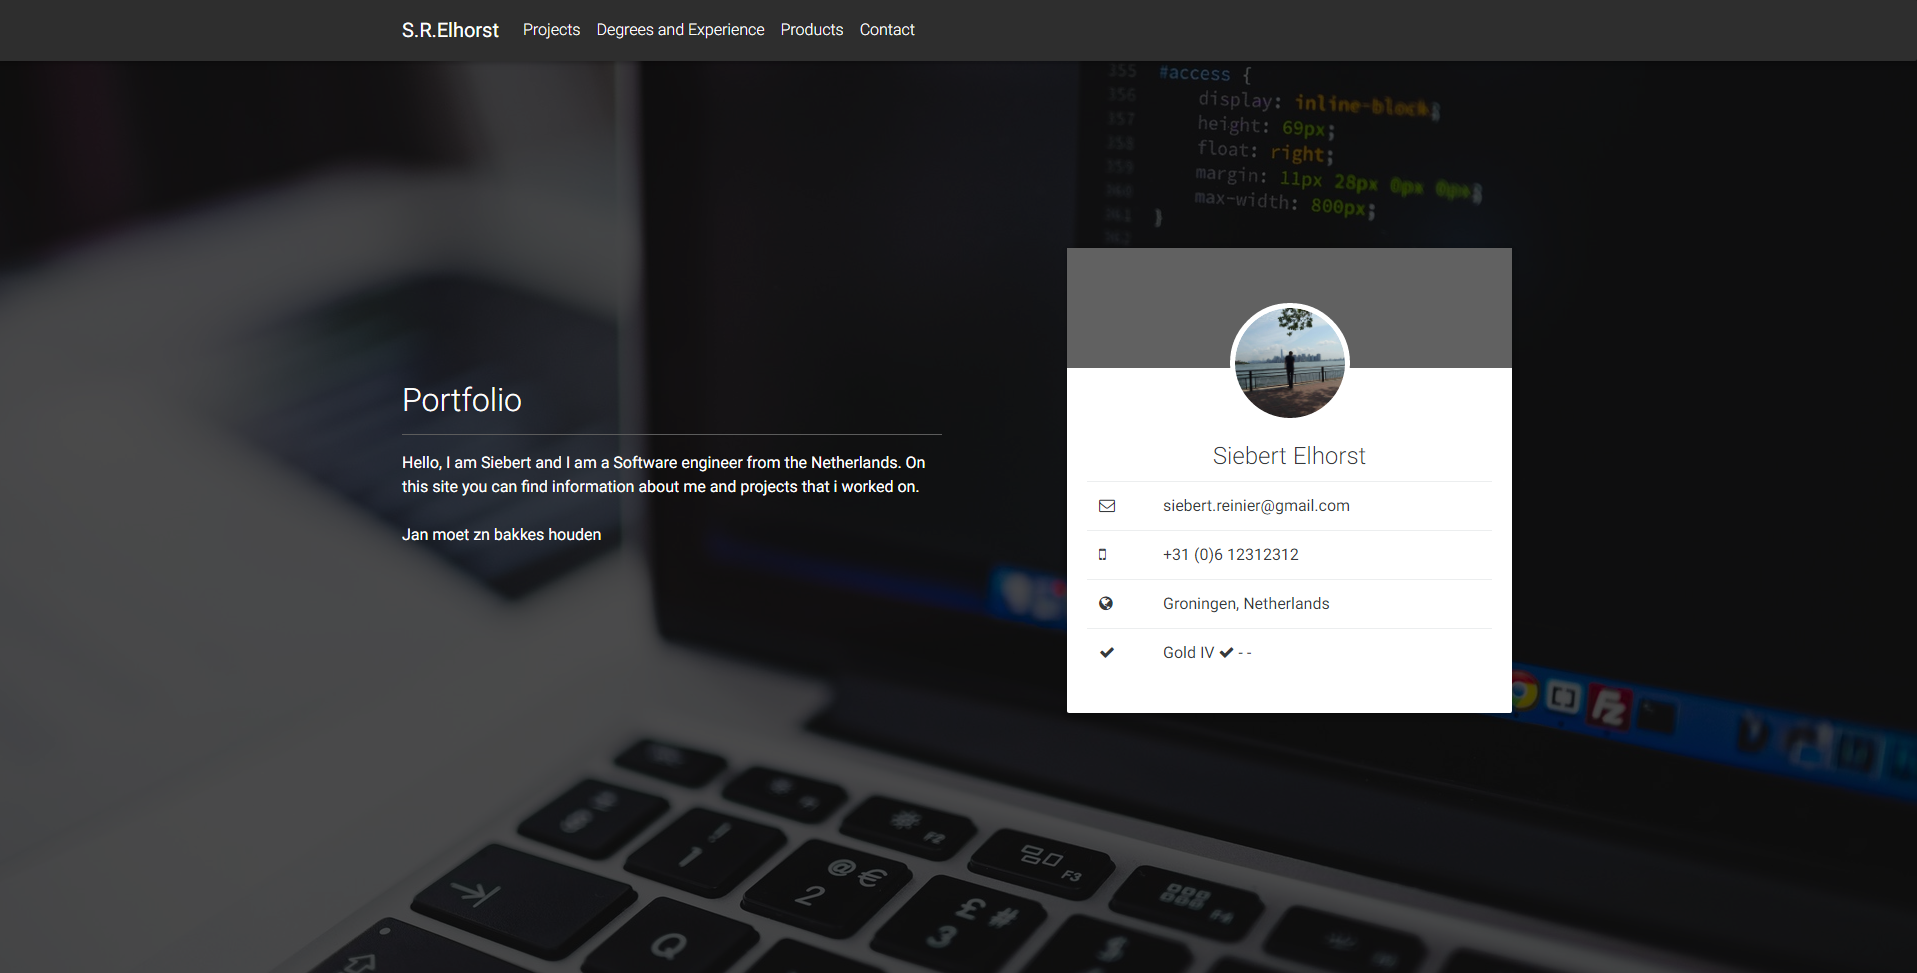
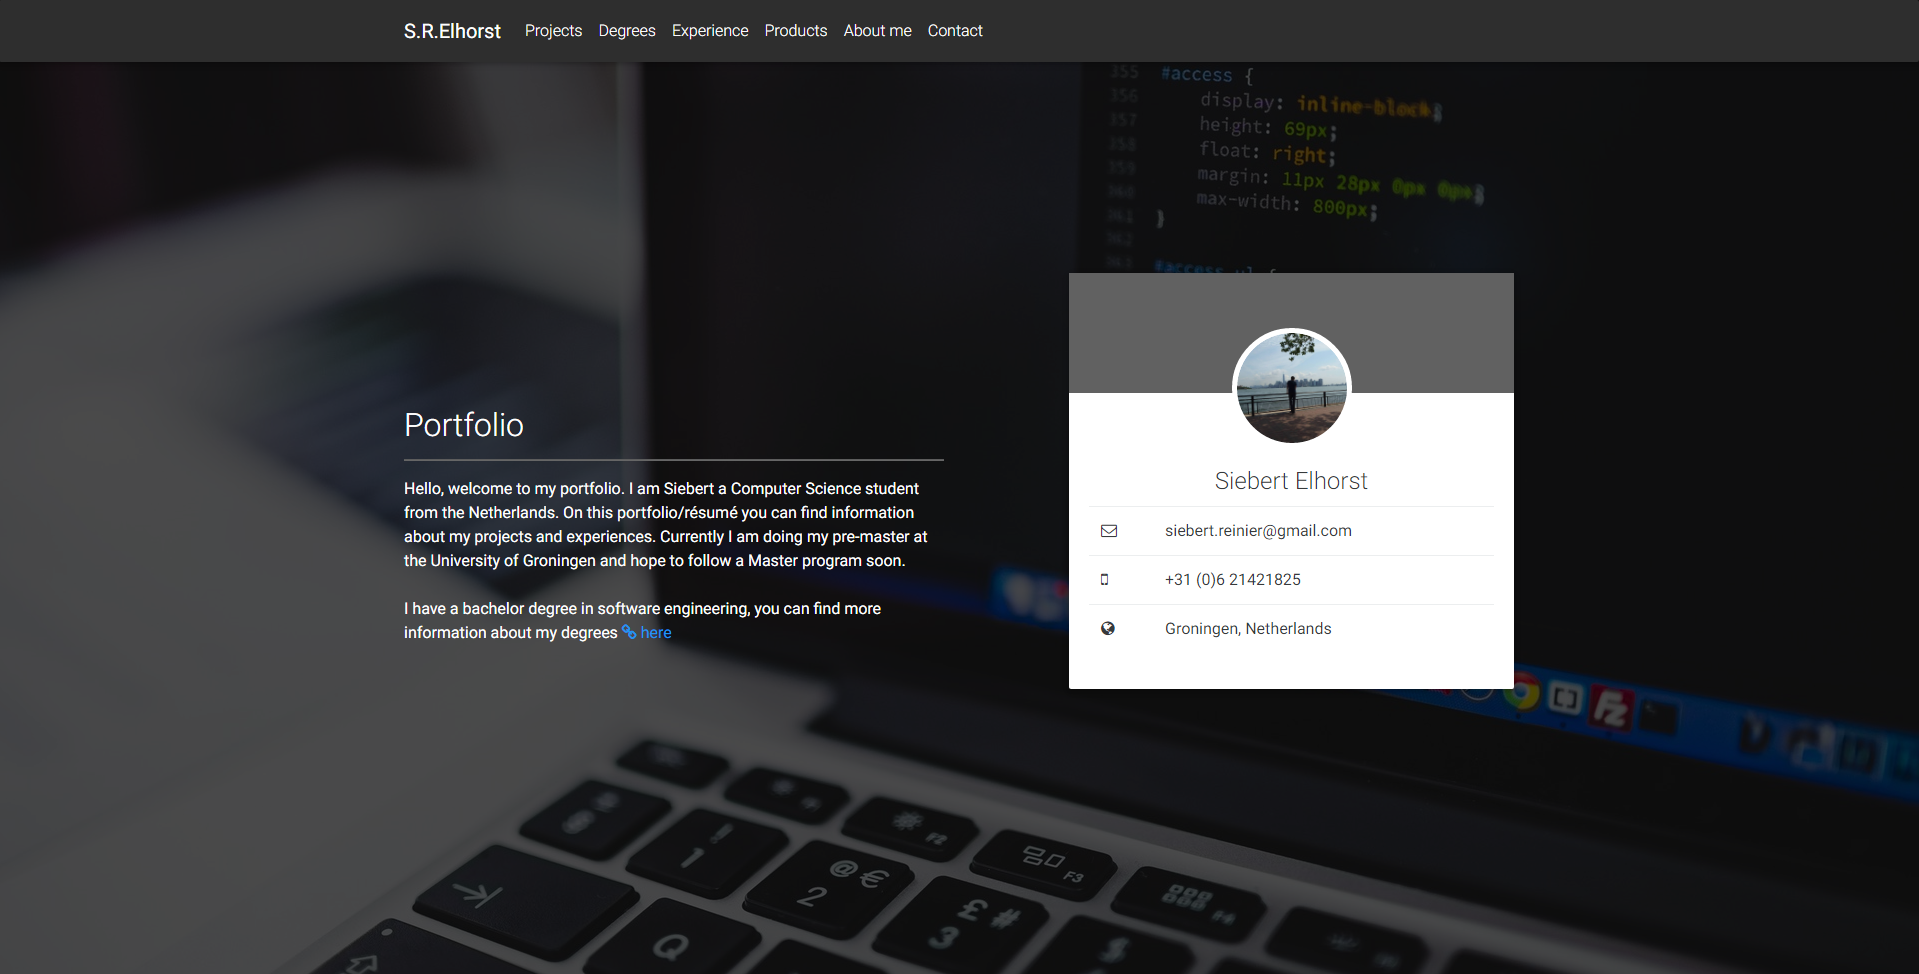
Website almost done

diff --git a/src/app/components/degree/degree.component.html b/src/app/components/degree/degree.component.html
@@ -11,14 +11,22 @@
                                 <span class="circle"></span>
                                 <span class="label">Today</span>
                             </a>
-                            <div class="step-content grey lighten-2 col-11 col-sm-11 col-xs-9">
-                                <!--Author Data-->
-                                <div class="">
-                                    <h3><strong>Rijksuniversiteit Groningen</strong></h3>
-                                    <div class="personal-sm">
-                                        <p><strong>September 2016 - heden</strong></p>
+                            <div class="step-content col-lg-11 col-sm-11 col-xs-9">
+                                <div class="card">
+                                    <div class="card-block">
+                                        <div class="row" style="text-align: left">
+                                            <!--Image column-->
+                                            <div class="col-sm-4 col-12">
+                                                <img src="./img/mainpage/rug_logo-01.png">
+                                            </div>
+                                            <div class="col-sm-8 col-12">
+                                                <h4><strong>Rijksuniversiteit Groningen</strong></h4>
+                                                <p><strong>Premaster Computer Science</strong></p>
+                                                <p>September 2016 - heden</p>
+                                            </div>
+                                            <!--/.Content column-->
+                                        </div>
                                     </div>
-                                    <p>Pre-master Computer Science</p>
                                 </div>
                             </div>
                         </li>
@@ -27,14 +35,22 @@
                                 <span class="circle"></span>
                                 <span class="label">2016</span>
                             </a>
-                            <div class="step-content grey lighten-2 col-11 col-sm-11 col-xs-9">
-                                <!--Author Data-->
-                                <div class="">
-                                    <h3><strong>Hanzehogeschool Groningen</strong></h3>
-                                    <div class="personal-sm">
-                                        <p><strong>September 2012 - Augustus 2016</strong></p>
+                            <div class="step-content col-lg-11 col-sm-11 col-xs-9">
+                                <div class="card">
+                                    <div class="card-block">
+                                        <div class="row" style="text-align: left">
+                                            <!--Image column-->
+                                            <div class="col-sm-4 col-12" style="margin-top: 2px">
+                                                <img src="./img/mainpage/hanzehogeschool.png">
+                                            </div>
+                                            <div class="col-sm-8 col-12">
+                                                <h4><strong>Hanzehogeschool Groningen</strong></h4>
+                                                <p><strong>HBO Bachelor Software Engineer</strong></p>
+                                                <p>September 2012 - Augustus 2016</p>
+                                            </div>
+                                            <!--/.Content column-->
+                                        </div>
                                     </div>
-                                    <p>HBO Bachelor Software Engineer</p>
                                 </div>
                             </div>
                         </li>
@@ -43,14 +59,22 @@
                                 <span class="circle"></span>
                                 <span class="label">2012</span>
                             </a>
-                            <div class="step-content grey lighten-2 col-11 col-sm-11 col-xs-9">
-                                <!--Author Data-->
-                                <div class="">
-                                    <h3><strong>Augustinuscollege Groningen</strong></h3>
-                                    <div class="personal-sm">
-                                        <p><strong>September 2010 - July 2012</strong></p>
+                            <div class="step-content col-lg-11 col-sm-11 col-xs-9">
+                                <div class="card">
+                                    <div class="card-block">
+                                        <div class="row" style="text-align: left">
+                                            <!--Image column-->
+                                            <div class="col-sm-4 col-12" style="margin-top: 8px">
+                                                <img src="./img/mainpage/augustinus.png">
+                                            </div>
+                                            <div class="col-sm-8 col-12">
+                                                <h4><strong>Augustinuscollege Groningen</strong></h4>
+                                                <p><strong>HAVO</strong></p>
+                                                <p>September 2010 - July 2012</p>
+                                            </div>
+                                            <!--/.Content column-->
+                                        </div>
                                     </div>
-                                    <p>HAVO</p>
                                 </div>
                             </div>
                         </li>
@@ -59,14 +83,22 @@
                                 <span class="circle"></span>
                                 <span class="label">2010</span>
                             </a>
-                            <div class="step-content grey lighten-2 col-11 col-sm-11 col-xs-9">
-                                <!--Author Data-->
-                                <div class="">
-                                    <h3><strong>Zernike College Haren</strong></h3>
-                                    <div class="personal-sm">
-                                        <p><strong>September 2007 - July 2010</strong></p>
+                            <div class="step-content col-lg-11 col-sm-11 col-xs-9">
+                                <div class="card">
+                                    <div class="card-block">
+                                        <div class="row" style="text-align: left">
+                                            <!--Image column-->
+                                            <div class="col-sm-4 col-12">
+                                                <img src="./img/mainpage/zernike.png">
+                                            </div>
+                                            <div class="col-sm-8 col-12">
+                                                <h4><strong>Zernike College Haren</strong></h4>
+                                                <p><strong>VWO</strong></p>
+                                                <p>September 2007 - July 2010</p>
+                                            </div>
+                                            <!--/.Content column-->
+                                        </div>
                                     </div>
-                                    <p>VWO</p>
                                 </div>
                             </div>
                         </li>
@@ -75,15 +107,6 @@
                                 <span class="circle"></span>
                                 <span class="label">1995</span>
                             </a>
-                            <div class="step-content grey lighten-2 col-11 col-sm-11 col-xs-9">
-                                <!--Author Data-->
-                                <div >
-                                    <h3><strong>Born</strong></h3>
-                                    <div class="personal-sm">
-                                        <p><strong>27 march 1995</strong></p>
-                                    </div>
-                                </div>
-                            </div>
                         </li>
                     </ul>
 

diff --git a/src/app/components/contact/contact.component.html b/src/app/components/contact/contact.component.html
@@ -2,32 +2,46 @@
     <div class="grey lighten-4 flex-center">
         <div class="container" style="margin-top: 110px">
 
-            <!--Author box-->
-            <div class="author-box">
-                <!--Name-->
-                <h3 class="h3-responsive text-center">Contact</h3>
-                <hr>
-                <div class="row">
-                    <!--Avatar-->
-                    <div class="col-12 col-sm-2">
-                        <img src="./img/mainpage/siebert.jpg" class="img-fluid rounded-circle z-depth-2">
-                    </div>
-                    <!--Author Data-->
-                    <div class=" col-12 col-sm-10">
-                        <p><strong>Siebert Elhorst</strong></p>
-                        <div class="personal-sm">
-                            <a routerLink="/index" class="email-ic"><i class="fa fa-home"> </i></a>
-                            <a href="http://www.facebook.com/siebert.elhorst" Target="_blank" class="fb-ic"><i class="fa fa-facebook-square"> </i></a>
-                            <a href="https://github.com/thegendolz" Target="_blank" class="black-text"><i class="fa fa-github"> </i></a>
-                            <a href="https://youtube.com/LeagueofGendolz" Target="_blank" class="red-text"><i class="fa fa-youtube"> </i></a>
+
+            <!--Section: Testimonials v.2-->
+            <section class="section">
+
+                <!--Section heading-->
+                <h1 class="section-heading">Contact me</h1>
+                <!--Section sescription-->
+
+                <!--Carousel Wrapper-->
+                <div id="carousel-example-1" class="carousel no-flex testimonial-carousel slide carousel-fade" data-ride="carousel" data-interval="false">
+
+                    <!--Slides-->
+                    <div class="carousel-inner" role="listbox">
+                        <!--First slide-->
+                        <div class="carousel-item active">
+
+                            <div class="testimonial">
+                                <!--Avatar-->
+                                <div class="avatar">
+
+                                    <img src="./img/mainpage/siebert.jpg" class="rounded-circle img-fluid" alt="First sample avatar image">
+
+                                </div>
+                                <!--Content-->
+                                <p>The best way to contact me is by sending an e-mail, you can expect a reaction within 24 hours.</p>
+                                <br>
+                                <h4>Siebert Elhorst</h4>
+                                <h5>siebert.reinier@gmail.com</h5>
+                                <h5>+31 (0)6 21421825</h5>
+
+                                <a type="button" href="http://www.facebook.com/siebert.elhorst" Target="_blank" class="btn-floating btn-large btn-fb"><i class="fa fa-facebook"></i></a>
+                                <a href="https://github.com/thegendolz" Target="_blank" type="button" class="btn-floating btn-large btn-git"><i class="fa fa-github"></i></a>
+                                <a href="https://youtube.com/LeagueofGendolz" Target="_blank" type="button" class="btn-floating btn-large btn-yt"><i class="fa fa-youtube"></i></a>
+                                <a routerLink="/index" type="button" class="btn-floating btn-large btn-email"><i class="fa fa-home"></i></a>
+                            </div>
+
                         </div>
-                        <p><strong>Email:</strong> siebert.reinier@gmail.com</p>
-                        <p><strong>Phonenumber:</strong> +31 (0)6 21421825</p>
-                        <p><strong>Nationality:</strong> Netherlands</p>
                     </div>
                 </div>
-            </div>
-            <!--/.Author box-->
+            </section>
         </div>
     </div>
 </div>

diff --git a/src/app/components/aboutme/aboutme.component.html b/src/app/components/aboutme/aboutme.component.html
@@ -25,7 +25,7 @@
 
                         <!--Excerpt-->
                         <div class="excerpt">
-                            <p>One of my greatest passions is formula one. I follow everything about formula one minute to minute. After waiting for a long time the season will start soon, I will also visit the Hungarian GP.
+                            <p>One of my greatest passions is formula one. I follow everything about formula one minute to minute. Now that the season is started I am really excited. I will also visit the Hungarian GP at the hungaroring in Budapest.
                             </p>
                          </div>
                     </div>
@@ -35,7 +35,7 @@
                     <div class="col-md-12">
                         <!--Featured image-->
                         <div class="overlay hm-white-slight">
-                            <img src="./img/mainpage/gaming.jpeg">
+                            <img src="./img/mainpage/news.jpg">
                             <a>
                                 <div class="mask "></div>
                             </a>
@@ -43,18 +43,17 @@
 
                         <!--Post data-->
                         <div class="jumbotron">
-                            <h1>Gaming</h1>
+                            <h1>Politics / News</h1>
                         </div>
                         <!--/Post data-->
 
                         <!--Excerpt-->
                         <div class="excerpt">
-                            <p>It's not a secret that most software engineers love gaming and so do I. I am a very competitive person and will fight to the limit in order to win. Gaming is a way to relax with friends which I do a lot.</p>
+                            <p>Unlike most young people I am interested in politics. I am usually up to date with most news and I always have a strong opinion about most subjects.</p>
                         </div>
                     </div>
                 </div>
                 <hr>
-
                 <div class="row" style="margin-top: 40px">
                     <div class="col-md-12">
                         <!--Featured image-->
@@ -67,17 +66,16 @@
 
                         <!--Post data-->
                         <div class="jumbotron">
-                            <h1>Gaming</h1>
+                            <h1>Casual Gamer</h1>
                         </div>
                         <!--/Post data-->
 
                         <!--Excerpt-->
                         <div class="excerpt">
-                            <p>It's not a secret that most software engineers love gaming and so do I. I am a very competitive person and will fight to the limit in order to win. Gaming is a way to relax with friends which I do a lot.</p>
+                            <p>It's not a secret that most software engineers love gaming. For me gaming is a way to relax and chat with friends.</p>
                         </div>
                     </div>
                 </div>
-
                 <hr>
             </section>
             <!--/Section: Blog v.4-->

diff --git a/src/app/components/project/project.component.html b/src/app/components/project/project.component.html
@@ -15,7 +15,7 @@
                     <div class="col-md-12 mb-r">
 
                         <!--Featured image-->
-                        <div class="view overlay hm-white-slight z-depth-2">
+                        <div class="overlay hm-white-slight z-depth-2">
                             <img src="./img/mainpage/tapmebaas.png">
                             <a>
                                 <div class="mask waves-effect waves-light"></div>
@@ -124,7 +124,7 @@
                         <div class="card-block">
                             <h3>Portfolio</h3>
                             <h5><strong>Angular 2, Javascript, CSS, HTML, Material design</strong></h5>
-                            <p>My portfolio is primarily my resume my goal was to give information about myself and show my talent. This portfolio was also a learning curve in which I wanted to learn how to work with angular 2.</p>
+                            <p>My portfolio is primarily my résumé. It's a way to show my projects and experiences. Besides my résumé my portfolio was also a learning curve in which I wanted to learn how to work with angular 2.</p>
                         </div>
 
                     </div>
@@ -157,7 +157,7 @@
                     <div class="col-md-12 mb-r">
 
                         <!--Featured image-->
-                        <div class="view overlay hm-white-slight z-depth-2">
+                        <div class="overlay hm-white-slight z-depth-2">
                             <div class="embed-responsive embed-responsive-16by9 wow fadeInRight">
                                 <iframe class="embed-responsive-item" src="https://www.youtube.com/embed/Hdu0Jgccqg8" allowfullscreen></iframe>
                             </div>
@@ -167,7 +167,7 @@
                         <div class="card-block">
                             <h3>Youtube</h3>
                             <h5><strong>Sony vegas pro 13, Adobe illustrator, Adobe after effects.</strong></h5>
-                            <p>Besides software engineering I also enjoy making videos. With my channel I got a total of 1.200.000 views and 1500 subscribers. The video above has 400.000 views.</p>
+                            <p>Besides software engineering I am also a video editor. With my youtube channel I got a total of 1.200.000 views and 1500 subscribers. My best watched video is the one above, it got a total of 400.000 views.</p>
                             <h5 class="blue-text" style="margin-top: 10px"><i class="fa fa-link"></i> <a href="https://www.youtube.com/user/LeagueOfGendolz" class="blue-text">My channel</a></h5>
                         </div>
 

diff --git a/src/app/components/experience/experience.component.html b/src/app/components/experience/experience.component.html
@@ -6,7 +6,7 @@
                 <!--Section description-->
                 <p class="section-description">This page shows my experience and knowledge of programming languages and frameworks that I used.</p>
                 <div class="card">
-                    <h3 class="card-header grey darken-2 white-text">Programming Languages</h3>
+                    <h3 class="card-header grey white-text">Programming Languages</h3>
                     <div class="card-block">
                         <div class="row">
                             <div class="col-sm-3 col-lg-2">
@@ -89,7 +89,7 @@
                     </div>
                 </div>
                 <div class="card" style="margin-top: 30px">
-                    <h3 class="card-header grey darken-2 white-text">Frameworks</h3>
+                    <h3 class="card-header grey white-text">Frameworks</h3>
                     <div class="card-block">
                         <div class="row">
                             <div class="col-sm-3 col-lg-2">
@@ -198,7 +198,7 @@
                     </div>
                 </div>
                 <div class="card" style="margin-top: 30px">
-                    <h3 class="card-header grey darken-2 white-text">Other</h3>
+                    <h3 class="card-header grey white-text">Other</h3>
                     <div class="card-block">
                         <div class="row">
                             <div class="col-sm-3 col-lg-2">

diff --git a/src/app/components/product/product.component.html b/src/app/components/product/product.component.html
@@ -39,7 +39,7 @@
                                 </ul>
 
                                 <!--Description-->
-                                <p class="card-text" style="margin-bottom: 10px">Do you want a custom website build by me? That's possible, it's always possible to discuss about the price but in general I will charge &euro;20 per hour.
+                                <p class="card-text" style="margin-bottom: 10px">Are you interested in a custom website build by me? That's of course possible, I charge &euro;20,- per hour.
                                 </p>
 
                                 <!--Card footer-->
@@ -83,11 +83,11 @@
                                 </ul>
 
                                 <!--Description-->
-                                <p class="card-text" style="margin-bottom: 35px">Do you want a custom video to be edited by me? That's possible, I will charge &euro;15 per hour.
+                                <p class="card-text" style="margin-bottom: 10px" >Are you interested in a custom video edited by me? That's also possible, I charge &euro;15,- per hour.
                                 </p>
 
                                 <!--Card footer-->
-                                <div class="card-footer">
+                                <div class="card-footer" >
                                     <span class="left">&euro;15,- per hour</span>
                                 </div>
 
